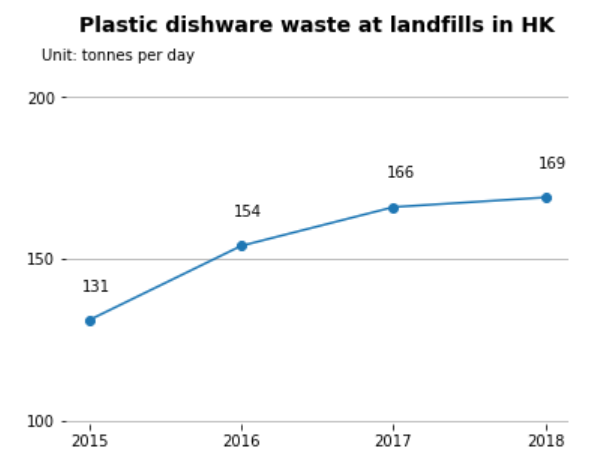
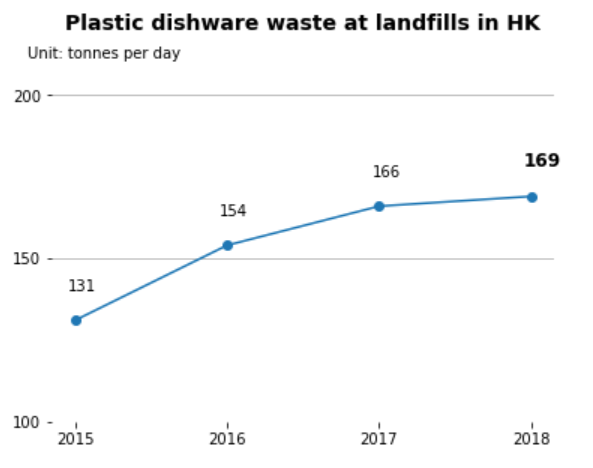
new

diff --git a/project2.md b/project2.md
@@ -24,22 +24,7 @@ id 4:
 
 ---
 
-    We using four images to show that <font color="blue">**more people choose to point takeaway and eat out, which result in the increase of plastic waste that are already out of the expected average**</font>.  And we use three pictures as arguments.
-
-1. <img src="./picture/1.png" width="300" align=left>    
-  * Good Point: This picture use line plot to visualize the information, so it not only show data intuitively, but also presents the trend.
-  * Bad Point: Unfortunately, this picture gives multi-dimensional comparison, and according to the cognitive theory, it is not good for humans' working memory.
-  * Improvements: We can separate the picture into other pictures and each picture only compare one thing different.
-
-2. <img src="./picture/2.png" width="300" align=left>
-  * Good Point: Absolute magnitudes are important for bar plot and this picture start from 0 fitting this rule.
-  * Bad Point: However, this picture do not show enough about the relative magnitudes, which is the plot want to show.
-  * Improvements: We can use line plot, or use lumpy profile. Also add the max number on the top of the bar may be another good idea.
-
-3. <img src="./picture/3.png" width="300" align=left>    
-  * Good Point: The picture use line chart to show the trend of data, and it can be known that the difference between two lines is becoming bigger and bigger.
-  * Bad Point: But it is still not intuitive enough, because the picture want to show the difference instead of trend. Beside, the data is not complete.
-  * Improvements: We can use area plot to re-show these data.
+WWF research shows the average person consumes 2,000 tiny pieces of plastic a week. That's like eating a VISA card(5 grams) a week or eating a plastic hangers(21 grams) a month. We get a sense of the seriousness of the problem from an article in Chinadaily. And we improve the information visualization of the three pictures in this article. The aim is to help people visually realize the importance of limiting the use of plastic tableware and reducing the amount of plastic discarded.
 
 ---
 
@@ -49,28 +34,47 @@ id 4:
 
 ---
 
-This part will show the background of the whole work
+So how does this happen?
 
 * **<font color="blue">Plastic will finally back to human</font>**
 
-  Plastic takes 10 to 1,000 years to decompose into microplastics, which flow through groundwater into the sea. They return via the marine food chain to people. So reducing plastic waste is urgent. And the WWF urged the government to set a phaseout of all single-use plastic cultery by 2022.
+  Plastic takes 10 to 1,000 years to decompose into microplastics, which flow through groundwater into the sea. They return via the marine food chain to people. So reducing plastic waste is urgent.
 
 * **<font color="blue">Eating takeaway contributes to plenty of plastic waste</font>**
 
-  ![1](./picture/background1.jpg)
+  ![1](./picture/background1.jpg )
 
-  This obviously shows the quantity and types of those plastic waste.
+  Based on the TAKEOUT WASTE PYRAMID DECOMPOSITION TIME diagram we can visually see the DECOMPOSITION TIME of take-out garbage.
   
   <figure>
   	<img src="./picture/background2.jpg" height="250" width="400">
-      And it is unbelievable that plastic waste accounts for 88%!
+      In particular, plastic waste accounts for 88 per cent of disposable tableware.
   </figure>
 
+The three images show that in Hong Kong, China, more people are opting for take-out or in-room meals, leading to a 30 percent increase in the number of plastic tableware discarded from landfills in four years, from 131 metric tons a day to 169 metric tons. Meanwhile, the increase in the amount of municipal solid waste (MSW) disposed of per capita in landfills makes Hong Kong's policy target of reducing waste per capita to 0.8 kg by 2020 unrealistic. Here is a brief analysis of the three pictures:
+
+1. <img src="./picture/1.png" width="300" align=left>    
+  * Information: This chart uses lines to depict the trends in the popularity of take-out/in-room meals in different regions (Hong Kong/Singapore) over the years.
+  * Visual patterns: point position in the figure.
+  * Data type: X-axis is year, Y-axis is percentage (penetration rate).
+  * Meaning: The chart reveals the rise in the proportion of take-out and in-room food in the two regions, which reflects the rise in the use of disposable tableware.
+
+2. <img src="./picture/2.png" width="300" align=left>
+  * Information: This chart shows how the amount of discarded plastic dining ware at landfills in Hong Kong varies by year
+  * Visual patterns: size(height) of the bar, position of the bar.
+  * Data type: categorical(year) and discrete(column height).
+  * Meaning: The number of tableware landfills in Hong Kong has been increasing for several years.
+
+3. <img src="./picture/3.png" width="300" align=left>    
+  * Information: This chart compares the Hong Kong government's expectations for the amount of solid waste dumped per person per day from 2011 to 2022.
+  * Visual patterns: point position in the figure.
+  * Data type: X-axis is year, Y-axis is the amount of solid waste discarded per capita on a daily basis(kg/person).
+  * Meaning: The gap between Hong Kong's actual MSW and the government's expectations is widening.
 ---
 
 
 
-## 3. ```Event```
+## 3. ```Improve Visualization```
 
 ---
 
@@ -78,15 +82,16 @@ This part will show the background of the whole work
 
    <img src="./picture/1.1.png" height="350" width="550"><font color="blue">Realized</font>
 
-   The above picture is what we realized and blow one is what we improved. 
-   The original picture gets the following questions:
+   (The above picture is what we replicated and blow one is what we improved.) 
 
-   * Too much variable and not easy for people to understand
-     ***And we improve those shortcomings with the following method:***
-     
-   * We use four chart and each picture only show one thing different. This is good for humans' working memory.
+  * Good Point: This picture use line plot to visualize the information, so it not only show data intuitively, but also presents the trend.
+  * Bad Point: Unfortunately, this picture gives relatively multi-dimensional comparison, and according to the cognitive theory, which may occupy the cognitive tunneling, making it difficult to understand.
+  * Improvements: We divided the data into multiple graphs to reduce the dimension of data comparison at the same time, for example, small Multiple (Trellis chart/lattice chart) was used.
+  
+   We ultimately made the following improvements:
 
-   * Beside, we raise the bottom of y-axis to make the contrast more clear.
+   * A small multiples containing four subgraphs are used.
+   * Adjust the range of the Y-axis to make the change in the data more obvious.
    	<img src="./picture/1.2.png" height="350" width="1200">
    	
    	<font color="red">Improved</font>
@@ -103,17 +108,23 @@ This part will show the background of the whole work
 
                                                                  <font color="blue">Realized</font>                                                                                                     <font color="red">Improved</font>
 
-   The left picture is what we realized and right one is what we improved. 
+   (The left picture is what we replicated and right one is what we improved.) 
 
-   The original picture gets the following questions:
+*  Good Point: Absolute magnitudes are important for bar plot and the baseline of this picture starts from 0 fitting this rule.
 
-   * The contrast is not enough
+* Bad Point: As time series data, the selection of bar chart cannot directly reflect the change of trend.
 
-     ***And we improve those shortcomings with the following method:***
+* Improvements: We can use line plot, or use lumpy profile. Also add the max number on the top of the bar may be another good idea.
 
-   * We use line plot to present the trend of quantity of plastic waste 
 
-   * To make sure the trend is more clear, we raise the minimum value of the y-axis.
+We ultimately made the following improvements:
+
+
+
+* We use line plot to present the trend of quantity of plastic dishware waste .
+
+
+* Show the trend by marking the maximum value.
 
      
 
@@ -127,25 +138,35 @@ This part will show the background of the whole work
 
                                                           <font color="blue">Realized</font>                                                                                                                          <font color="red"> Improved</font>
 
-   The left picture is what we realized and right one is what we improved. 
+   (The left picture is what we replicated and right one is what we improved.) 
 
-   The original picture gets the following questions:
+  * Good Point: The picture use line chart to show the trend of data, and it can be known that the difference between two lines is becoming bigger and bigger.
+  * Bad Point: But it is still not intuitive enough, because the picture want to show the difference instead of trend. Beside, the data is not complete， which raises doubts about comparability.
+  * Improvements: We can use area plot to re-show these data.
 
-   * Data Missing
+   We ultimately made the following improvements:
 
-   * line plot is not good for showing difference
-
-     ***And we improve those shortcomings with the following method:***
+   * We have to throw away the data after 2018 because there is still no relevant data on the government official website.
+  
+   * Calculate the corresponding data points and show only the full year of the data.
 
    * We use area plot to present the increasing distance.
 
-   * Since we can not find the complete data through the official website, we have to throw away the data after 2018.
+---
+
+## 4. ```Future Work```
+
+---
+After finishing our visualization and analyzing, we recognize that the situation is not optimistic. When we searched the data from the offical website, the latest data was gathered in 2018. It illustrates that the Hong Kong government doesn't make this project go ahead successfully. Or the work is so hard for each person to do. The principle of reducing plastic tableware needs everyone in this society to obey. For the future, we call for the government to make policy and law to limit the using of plastic contaminant, especially tableware. More importantly, the public need to have responsibility and awareness to reduce the use of plastic tableware in order to contribute to environment protection.
+
+For future work, we will keep using visualization and relevant methods (use our knowledge and technic) to improve residents' awareness of protecting our environment. Except plastic tableware, we will analyse much more other fields of environment protection for instance water cycling and industrial waste gas. When we draw enough pictures, we are willing to contact with local council and exhibit these images even animation to civilian by helps from administration.
+
+
+## 5. ```Conclusion```
 
 ---
 
-## 4. ```Reveal```
-
----
+We have make change selected graphs to let them show better for their original meaning that the author what to express. But we do not think those pictures can greatly explain why limiting single-use plastic waste use in eating takeaway is urgent for HK, this is because those data do not show damage plastic waste has caused to HK's environment, and we want to realize it with more data. We believe that this is the most direct way to show thrust.
 
 * **Graphical Type**
 
@@ -158,11 +179,3 @@ This part will show the background of the whole work
 * **Graphical Excellence**
 
   When we make a graph, how to make it easy for people to understand is important. The second do not show enough contrast, and the first graph is not kind to humans' working memory. 
-
-
-
-## 5. ```Conclusion```
-
----
-
-We have make change selected graphs to let them show better for their original meaning that the author what to express. But we do not think those pictures can greatly explain why limiting single-use plastic waste use in eating takeaway is urgent for HK, this is because those data do not show damage plastic waste has caused to HK's environment, and we want to realize it with more data. We believe that this is the most direct way to show thrust.
